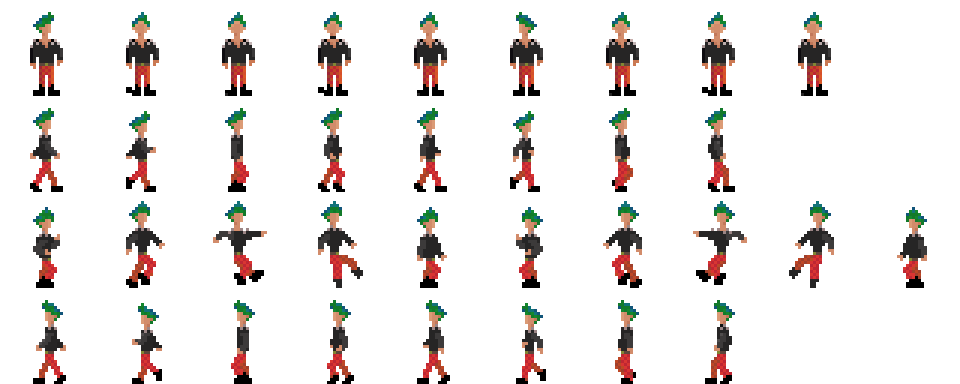
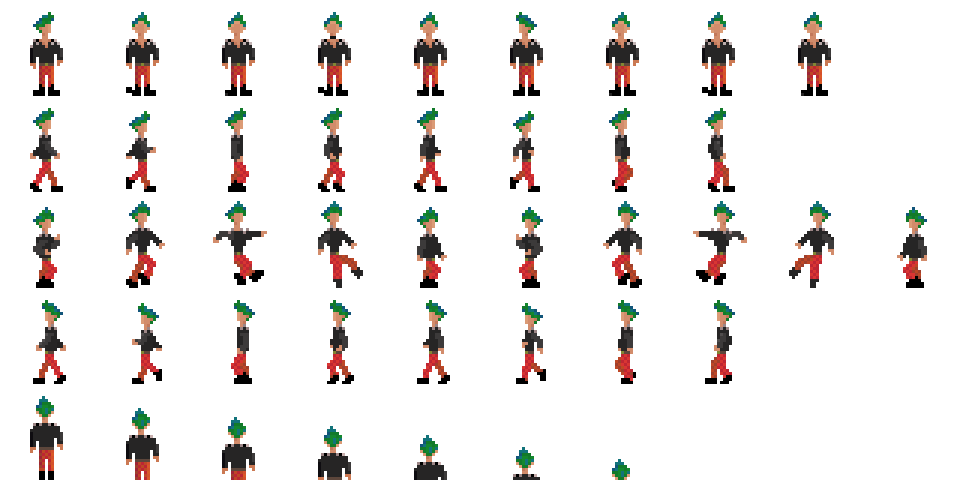
added Zombie state, animation for when player can add building too

diff --git a/app/states/player/player_ground.js b/app/states/player/player_ground.js
@@ -8,9 +8,24 @@
 
         this.update = function(target) {
 
-        	game.physics.arcade.collide(target, physics_model.environment, function(){
-                if(target.body.touching.down == true){
-                   
+            var inFrontOfDoor = false;
+
+
+            for (var i = 0; i < physics_model.openDoors.length; i++) {
+
+                var door = physics_model.openDoors[i];
+                var xpos = target.x + target.body.width;
+
+                if (xpos > door.x + 5 && xpos < door.x + door.width - 5) {
+                    inFrontOfDoor = true;
+                    lo.g("PHYSICS", "PLAYER IN FRONT OF DOOR");
+                }
+
+            }
+
+            game.physics.arcade.collide(target, physics_model.environment, function() {
+                if (target.body.touching.down == true) {
+
                 }
                 return;
             });
@@ -20,28 +35,52 @@
 
                 lo.g("PHYSICS", "Change state to jump");
 
-                dispatcher.dispatch("change_player_state", {type:"PHYSICS",state:state_model.PLAYER_JUMP});
+                dispatcher.dispatch("change_player_state", {
+                    type: "PHYSICS",
+                    state: state_model.PLAYER_JUMP
+                });
 
             }
-            
+
             var speed = 200;
 
-            if(input.sprint) speed = 1000;
-        
+            if (input.sprint) speed = 1000;
+
             if (input.goLeft) {
                 target.animations.play('left');
                 target.body.velocity.x = -1 * speed;
             }
             if (input.goUp) {
-                if(physics_model.player_jump_allowed) target.body.velocity.y = -1000;
+                if (physics_model.player_jump_allowed) target.body.velocity.y = -1000;
             }
             if (input.goRight) {
                 target.animations.play('right');
                 target.body.velocity.x = 1 * speed;
             }
+
             if (input.goDown) {}
 
-            if (!input.goLeft && !input.goRight) {
+            if (input.actionButton && !(input.goRight || input.goLeft)) {
+                target.body.velocity.x = 0;
+
+
+                if (inFrontOfDoor) {
+                    // MOVE THIS TO A COMMAND
+                    target.animations.play('go_inside');
+                    target.alpha = 1;
+                    game.add.tween(target).to( { alpha: 0 }, 500, Phaser.Easing.Linear.None, true,250).onComplete.add(function(){ console.log("DISPATCH BUILDING LEVEL") });
+                    dispatcher.dispatch("change_player_state", {
+                        type: "PHYSICS",
+                        state: state_model.PLAYER_ZOMBIE
+                    });
+
+                } else {
+                    target.frame = 40;
+
+                }
+            }
+
+            if (!input.goLeft && !input.goRight && !input.actionButton) {
                 target.body.velocity.x = 0;
                 target.animations.stop();
                 target.frame = 2;

diff --git a/app/views/building_view.js b/app/views/building_view.js
@@ -2,7 +2,7 @@
 
     'use strict';
 
-    var BuildingView = function(game, lo, props, rnd,params) {
+    var BuildingView = function(game, lo, props, rnd,params,dispatcher) {
 
         lo.g("VIEW", "CREATING BUILDING VIEW");
 
@@ -44,12 +44,14 @@
         var doorOpening = drawRectangleWithStroke(xPos + 20 + r * (width - 120), yPos + height - 80, 60, 80, 0x000000, strokeColor, strokeWidth, 0.6);
 
         // IS the door open ?
-        if (rnd.getRandom() == 100) // YES
+        if (rnd.getRandom() == 250) // YES
         {
+            // Register with the game as an open door
+            dispatcher.dispatch("register_open_door",{x:xPos + 20 + r * (width - 120),width:52});
+            // Draw the shading
             var doorshading = drawRectangleWithStroke(xPos + 4 + 20 + r * (width - 120), yPos + 4 + height - 80, 52, 76, 0x000000, strokeColor, strokeWidth, 0.5);
         } else // NO
         {
-            console.log("closed door")
             var door = drawRectangleWithStroke(xPos + 4 + 20 + r * (width - 120), yPos + 4 + height - 80, 52, 76, 0x3a3232, strokeColor, strokeWidth, 1);
         }
 

diff --git a/app/mediators/player_mediator.js b/app/mediators/player_mediator.js
@@ -19,7 +19,9 @@
         target.body.setSize(target.body.width - 60, target.body.height, 30, 1);
 
         target.animations.add('left', [30, 31, 32, 33, 34, 35, 36, 37], 10, true);
-        target.animations.add('right', [10, 11, 12, 13, 14, 15, 16, 17], 10, true)
+        target.animations.add('right', [10, 11, 12, 13, 14, 15, 16, 17], 10, true);
+        target.animations.add('walk_down', [40, 41, 42, 43, 44, 45, 46, 47], 10, false);
+        target.animations.add('go_inside', [40, 41], 10, false);
 
         var physics_state = state_model.PLAYER_GROUND;
 
@@ -31,6 +33,9 @@
                 physics_state = event.params.state;
             }
         });
+
+
+       
 
         dispatcher.addEventListener('game_update', function(event) {
             physics_state.update(target);

diff --git a/app/states/player/player_zombie.js b/app/states/player/player_zombie.js
@@ -1,0 +1,27 @@
+(function(berghain2) {
+
+    'use strict';
+
+    var Player_Zombie = function(dispatcher, input, lo, config, state_model, game, physics_model) {
+
+        this.name = "Player zombie state - this is the state we give when we do not want the char to interact with user inputs";
+
+        this.update = function(target) {
+
+             game.physics.arcade.collide(target, physics_model.environment, function() {
+                if (target.body.touching.down == true) {
+
+                }
+                return;
+            });
+           
+        }
+
+    };
+
+    // ContentModel.prototype.clear = function() {
+    // };
+
+    berghain2.Player_Zombie = Player_Zombie;
+
+})(window.berghain2 = window.berghain2 || {});

diff --git a/app/models/physics_model.js b/app/models/physics_model.js
@@ -15,8 +15,10 @@
 
 		// Helper variables
 		this.ground_height = 0;
+		this.openDoors = [];
 
 		// Helper functions
+		var that = this;
 
 		this.makeImmovable = function(target){
 			// lo.g("PHYSICS","Making object immovable: " + target.name)
@@ -26,6 +28,11 @@
             target.body.collideWorldBounds = false;
 
 		}
+
+		dispatcher.addEventListener('register_open_door', function (event) {
+            that.openDoors.push(event.params);
+        });
+       
 
 
 

diff --git a/app/commands/create_world_command.js b/app/commands/create_world_command.js
@@ -12,11 +12,8 @@
              
             initGamePhysics();
 
-
-
             createWorld();
-
-           
+        
             createBackground();
 
             var env = game.add.group();
@@ -26,15 +23,11 @@
             createFloor();
 
             createBackdrop();
-
-            
-           
-
-            
+  
             createCamera();
-
            
             createSky();
+
             createNPCs();
 
             createPlaces();

diff --git a/app/models/state_model.js b/app/models/state_model.js
@@ -6,6 +6,7 @@
 
 		this.PLAYER_JUMP 	= new berghain2.Player_Jump(	dispatcher,input,lo,config,this,game,physics_model);
 		this.PLAYER_GROUND 	= new berghain2.Player_Ground(	dispatcher,input,lo,config,this,game,physics_model);
+		this.PLAYER_ZOMBIE	= new berghain2.Player_Zombie(	dispatcher,input,lo,config,this,game,physics_model);
 
 		lo.g("MODEL","States created");
 	};

diff --git a/app/main.js b/app/main.js
@@ -50,6 +50,7 @@ define([
     "states/app/app_playing",
     "states/player/player_ground",
     "states/player/player_jump",
+    "states/player/player_zombie",
     // OTHER
     "util/log",
     "util/config",
@@ -99,6 +100,7 @@ function(
     app_playing,
     player_ground_state,
     player_jump_state,
+    player_zombie_state,
     // OTHER
     log,
     config,

diff --git a/app/interfaces/input.js b/app/interfaces/input.js
@@ -42,7 +42,7 @@
                 constructor.actionButton = false;
             }
 
-            // UP
+            // JUMP
             if (game.input.keyboard.isDown(Phaser.Keyboard.SPACEBAR) || pad1.isDown(Phaser.Gamepad.XBOX360_DPAD_UP) || pad1.axis(Phaser.Gamepad.XBOX360_STICK_LEFT_Y) < -0.1) {
                 constructor.goUp = true;
             } else {

diff --git a/app/commands/create_backdrop_command.js b/app/commands/create_backdrop_command.js
@@ -132,7 +132,7 @@
           
             
 
-            var building = new berghain2.BuildingView(game, lo, props, rnd, params);
+            var building = new berghain2.BuildingView(game, lo, props, rnd, params, dispatcher);
              	// spacing for the next building or not?
            	if(rnd.getRandom() == 250){
            		params.spacing = 100;

diff --git a/app/util/config.js b/app/util/config.js
@@ -12,7 +12,7 @@
             this.skipIntro = true;
 
             this.useRandomSeed = false;
-            this.seed = 567813; 
+            this.seed = 451182; 
            
         };
 

diff --git a/app/mediators/game_mediator.js b/app/mediators/game_mediator.js
@@ -8,8 +8,7 @@
 
     	// var keys = target.input.keyboard.createCursorKeys();
 
-
-       
+    	
 
     };
 
